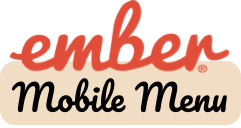
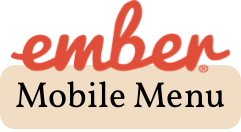
testing on ios

diff --git a/app/components/structural/routes/home-index/styles.scss b/app/components/structural/routes/home-index/styles.scss
@@ -1,5 +1,6 @@
 @import 'global/variables';
 @import 'global/breakpoints';
+// sass-lint:disable no-vendor-prefixes
 
 .home_index_component_container {
   display: flex;
@@ -37,145 +38,8 @@
           font-family: vollkorn;
           font-size: 2.5em;
           font-weight: bolder;
+          text-align: center;
           white-space: nowrap;
-          border-right: 3px solid;
-          animation: type 2s steps(22), blink 0.5s step-end infinite alternate;
-
-          &:nth-child(1) {
-            width: 3em;
-            -webkit-animation: type 2s steps(40, end);
-            animation: type 2s steps(40, end);
-            -webkit-animation-fill-mode: forwards;
-            animation-fill-mode: forwards;
-          }
-
-          &:nth-child(2) {
-            width: 14em;
-            opacity: 0;
-            -webkit-animation: type2 2s steps(40, end);
-            animation: type2 2s steps(40, end);
-            -webkit-animation-delay: 2s;
-            animation-delay: 2s;
-            -webkit-animation-fill-mode: forwards;
-            animation-fill-mode: forwards;
-          }
-
-          &:nth-child(3) {
-            width: 9em;
-            opacity: 0;
-            -webkit-animation: type3 3s steps(40, end), blink 0.5s step-end infinite alternate;
-            animation: type3 3s steps(40, end), blink 0.5s step-end infinite alternate;
-            -webkit-animation-delay: 4s;
-            animation-delay: 4s;
-            -webkit-animation-fill-mode: forwards;
-            animation-fill-mode: forwards;
-          }
-        }
-
-        @keyframes type {
-          0% {
-            width: 0;
-          }
-
-          99.9% {
-            border-right: 3px solid;
-          }
-
-          100% {
-            border: 0;
-          }
-        }
-
-        @-webkit-keyframes type {
-          0% {
-            width: 0;
-          }
-
-          99.9% {
-            border-right: 3px solid;
-          }
-
-          100% {
-            border: 0;
-          }
-        }
-
-        @keyframes type2 {
-          0% {
-            width: 0;
-          }
-
-          1% {
-            opacity: 1;
-          }
-
-          99.9% {
-            border-right: 3px solid;
-          }
-
-          100% {
-            border: 0;
-            opacity: 1;
-          }
-        }
-
-        @-webkit-keyframes type2 {
-          0% {
-            width: 0;
-          }
-
-          1% {
-            opacity: 1;
-          }
-
-          99.9% {
-            border-right: 3px solid;
-          }
-
-          100% {
-            border: 0;
-            opacity: 1;
-          }
-        }
-
-        @keyframes type3 {
-          0% {
-            width: 0;
-          }
-
-          1% {
-            opacity: 1;
-          }
-
-          100% {
-            opacity: 1;
-          }
-        }
-
-        @-webkit-keyframes type3 {
-          0% {
-            width: 0;
-          }
-
-          1% {
-            opacity: 1;
-          }
-
-          100% {
-            opacity: 1;
-          }
-        }
-
-        @keyframes blink {
-          50% {
-            border-color: transparent;
-          }
-        }
-
-        @-webkit-keyframes blink {
-          50% {
-            border-color: transparent;
-          }
         }
       }
     }
@@ -213,7 +77,6 @@
           60% {
             transform: translateY(-15px);
           }
-
         }
       }
     }

diff --git a/app/components/structural/routes/contact/styles.scss b/app/components/structural/routes/contact/styles.scss
@@ -1,6 +1,7 @@
 @import 'global/variables';
 @import 'global/breakpoints';
 @import 'global/text_style';
+// sass-lint:disable no-vendor-prefixes
 
 .contact_component_container {
   display: flex;
@@ -48,8 +49,8 @@
       display: flex;
       width: 300px;
       max-width: 400px;
-      height: 500px;
-      max-height: 500px;
+      height: 650px;
+      max-height: 650px;
       flex-direction: column;
       margin: auto;
       margin-bottom: 100px;
@@ -89,60 +90,76 @@
         .contact_form {
           margin-bottom: 20px;
 
+          p {
+            text-align: left;
+          }
+
           ::placeholder {
-            text-indent: 1em;
             color: $color_menu;
+            text-indent: 1em; 
           }
 
           input {
             width: 240px;
             height: 30px;
+            text-indent: 1em;
             background-color: $color_background;
             border: 0;
-            outline: none;
-            box-shadow: inset 9px 9px 16px $color_box_shadow, inset -9px -9px 16px $color_white;
-            text-indent: 1em;
             border-radius: 15px;
+            outline: none;
+            -webkit-box-shadow: inset 9px 9px 16px $color_box_shadow, inset -9px -9px 16px $color_white;
+            box-shadow: inset 9px 9px 16px $color_box_shadow, inset -9px -9px 16px $color_white; 
           }
         }
 
         .contact_email {
           margin-bottom: 20px;
 
+          p {
+            text-align: left;
+          }
+
           ::placeholder {
-            text-indent: 1em;
             color: $color_menu;
+            text-indent: 1em;
           }
 
           input {
             width: 240px;
             height: 30px;
+            text-indent: 1em;
             background-color: $color_background;
             border: 0;
-            outline: none;
-            box-shadow: inset 9px 9px 16px $color_box_shadow, inset -9px -9px 16px $color_white;
-            text-indent: 1em;
             border-radius: 15px;
+            outline: none;
+            -webkit-box-shadow: inset 9px 9px 16px $color_box_shadow, inset -9px -9px 16px $color_white;
+            box-shadow: inset 9px 9px 16px $color_box_shadow, inset -9px -9px 16px $color_white; 
           }
         }
 
         .text_area {
 
+          p {
+            text-align: left;
+          }
+
           ::placeholder {
-            text-indent: 1em;
             color: $color_menu;
+            text-indent: 1em;
           }
 
           textarea {
             width: 240px;
             height: 90px;
+            padding-top: 1em;
+            text-indent: 1em;
+            resize: none;
             background-color: $color_background;
             border: 0;
-            outline: none;
-            box-shadow: inset 9px 9px 16px $color_box_shadow, inset -9px -9px 16px $color_white;
-            text-indent: 1em;
             border-radius: 15px;
-            padding-top: 1em;
+            outline: none;
+            -webkit-box-shadow: inset 9px 9px 16px $color_box_shadow, inset -9px -9px 16px $color_white;
+            box-shadow: inset 9px 9px 16px $color_box_shadow, inset -9px -9px 16px $color_white;  
           }
         }
       }

diff --git a/app/components/structural/routes/thank-you/styles.scss b/app/components/structural/routes/thank-you/styles.scss
@@ -69,7 +69,7 @@
         button {
           min-width: 145px;
           padding: 15px;
-          margin-top: 20px;
+          margin-top: 50px;
           font-size: $font_size_medium;
           color: $color_menu;
           white-space: nowrap;
@@ -79,7 +79,6 @@
           border-radius: 2em;
           outline: 0;
           box-shadow: -9px -9px 16px $color_white, 9px 9px 16px $color_box_shadow;
-
         }
       }
     }
